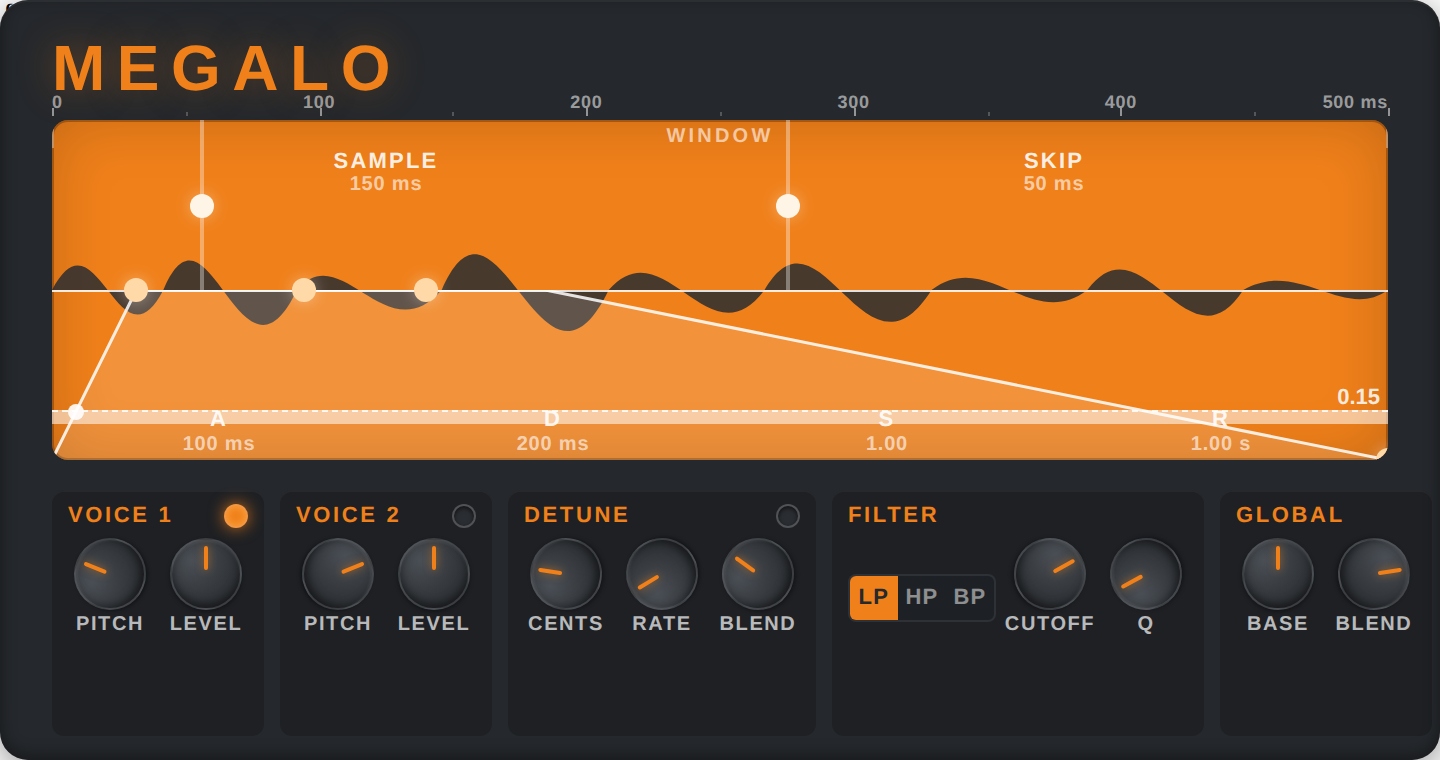
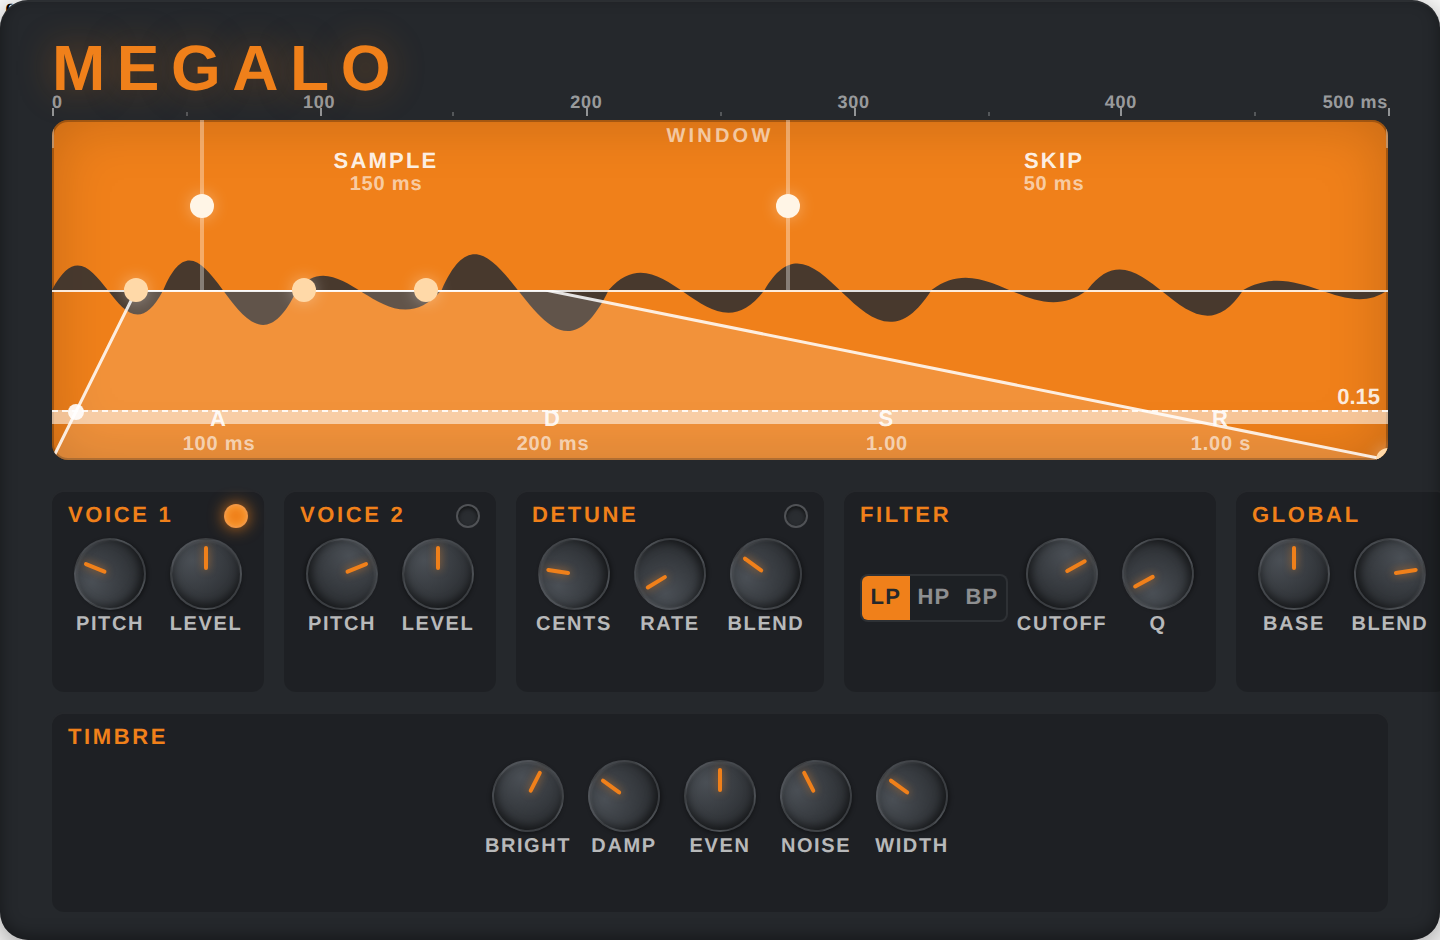
ui(modgui): TIMBRE control row (Brightness/Damping/Even-Odd/Noise/Width)
Surfaces the five H+N timbre/width controls on the MOD pedal. The panel
grows to 470 px and the controls become two rows: the original five groups
stay on row 1, a full-width TIMBRE group with the five knobs sits on row 2.
modgui.ttl gains the port metadata and the JS value formats are added.
Screenshot/thumbnail re-rendered via headless Chromium.

diff --git a/megaloHN.lv2/modgui/icon-megalo.html b/megaloHN.lv2/modgui/icon-megalo.html
@@ -169,6 +169,8 @@
     <!-- ── Knob / switch row below the window ─────────────────────── -->
     <div class="megalo-controls">
 
+      <div class="megalo-controls-row">
+
         <!-- Voice 1 -->
         <div class="megalo-group">
             <div class="megalo-group-head">
@@ -337,6 +339,56 @@
                 </div>
             </div>
         </div>
+
+      </div><!-- /controls-row 1 -->
+
+      <div class="megalo-controls-row">
+
+        <!-- Timbre — shapes the polyphonic H+N resynthesis -->
+        <div class="megalo-group megalo-group-wide">
+            <div class="megalo-group-head">
+                <span class="megalo-group-title">TIMBRE</span>
+            </div>
+            <div class="megalo-group-body">
+                <div class="megalo-knob" title="Brightness (spectral tilt)">
+                    <div class="megalo-knob-dial" mod-role="input-control-port"
+                         mod-port-symbol="hn_brightness" mod-widget-rotation="270">
+                        <div class="megalo-knob-pointer"></div>
+                    </div>
+                    <span class="megalo-knob-label">BRIGHT</span>
+                </div>
+                <div class="megalo-knob" title="Damping (high roll-off)">
+                    <div class="megalo-knob-dial" mod-role="input-control-port"
+                         mod-port-symbol="hn_damping" mod-widget-rotation="270">
+                        <div class="megalo-knob-pointer"></div>
+                    </div>
+                    <span class="megalo-knob-label">DAMP</span>
+                </div>
+                <div class="megalo-knob" title="Even/Odd harmonic balance">
+                    <div class="megalo-knob-dial" mod-role="input-control-port"
+                         mod-port-symbol="hn_even_odd" mod-widget-rotation="270">
+                        <div class="megalo-knob-pointer"></div>
+                    </div>
+                    <span class="megalo-knob-label">EVEN</span>
+                </div>
+                <div class="megalo-knob" title="Noise / air amount">
+                    <div class="megalo-knob-dial" mod-role="input-control-port"
+                         mod-port-symbol="hn_noise" mod-widget-rotation="270">
+                        <div class="megalo-knob-pointer"></div>
+                    </div>
+                    <span class="megalo-knob-label">NOISE</span>
+                </div>
+                <div class="megalo-knob" title="Stereo width">
+                    <div class="megalo-knob-dial" mod-role="input-control-port"
+                         mod-port-symbol="hn_width" mod-widget-rotation="270">
+                        <div class="megalo-knob-pointer"></div>
+                    </div>
+                    <span class="megalo-knob-label">WIDTH</span>
+                </div>
+            </div>
+        </div>
+
+      </div><!-- /controls-row 2 -->
 
     </div>
 

diff --git a/megaloHN.lv2/modgui/stylesheet-megalo.css b/megaloHN.lv2/modgui/stylesheet-megalo.css
@@ -18,7 +18,7 @@
         0 4px 18px rgba(0,0,0,0.45);
     color: #fff;
     font-family: "Nexa", "Questrial", sans-serif;
-    height: 380px;
+    height: 470px;
     position: absolute;
     width: 720px;
     overflow: hidden;
@@ -454,10 +454,10 @@
 
 /* ── Bottom controls row ────────────────────────────────── */
 .megalo-panel{{{cns}}} .megalo-controls {
-    bottom: 12px;
+    bottom: 14px;
     display: flex;
-    gap: 8px;
-    justify-content: space-between;
+    flex-direction: column;     /* row 1: the five groups; row 2: TIMBRE */
+    gap: 10px;
     left: 26px;
     position: absolute;
     right: 26px;
@@ -465,12 +465,25 @@
     z-index: 30;
 }
 
+.megalo-panel{{{cns}}} .megalo-controls-row {
+    display: flex;
+    flex: 1 1 0;
+    gap: 10px;
+    justify-content: space-between;
+}
+
 .megalo-panel{{{cns}}} .megalo-group {
     background: rgba(0,0,0,0.18);
     border-radius: 6px;
     box-shadow: inset 0 1px 0 rgba(255,255,255,0.04);
     flex: 1 1 auto;
+    box-sizing: border-box;
     padding: 6px 8px 4px;
+}
+
+/* The TIMBRE group takes a full second row (5 knobs spread wide). */
+.megalo-panel{{{cns}}} .megalo-group-wide {
+    flex: 1 1 100%;
 }
 
 .megalo-panel{{{cns}}} .megalo-group-head {

diff --git a/megaloHN.lv2/modgui/script-megalo.js b/megaloHN.lv2/modgui/script-megalo.js
@@ -36,7 +36,12 @@ function (event, funcs) {
         detune_blend:    { kind: 'ratio'    },
         filter_cutoff:   { kind: 'hz-long'  },
         filter_q:        { kind: 'ratio'    },
-        filter_type:     { kind: 'choice', labels: ['LP', 'HP', 'BP'] }
+        filter_type:     { kind: 'choice', labels: ['LP', 'HP', 'BP'] },
+        hn_brightness:   { kind: 'ratio'    },
+        hn_damping:      { kind: 'ratio'    },
+        hn_even_odd:     { kind: 'ratio'    },
+        hn_noise:        { kind: 'ratio'    },
+        hn_width:        { kind: 'ratio'    }
     }
 
     function formatValue(symbol, value) {